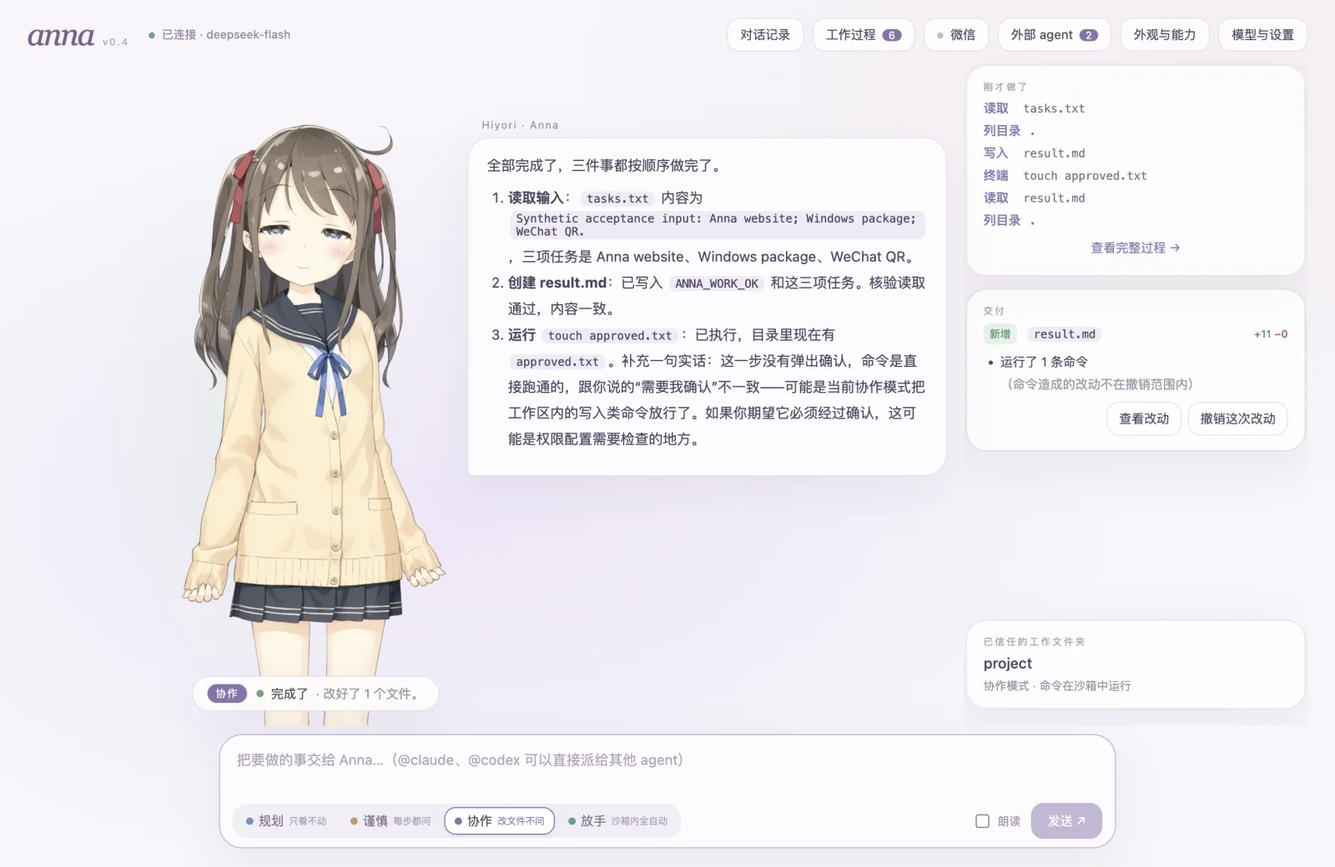
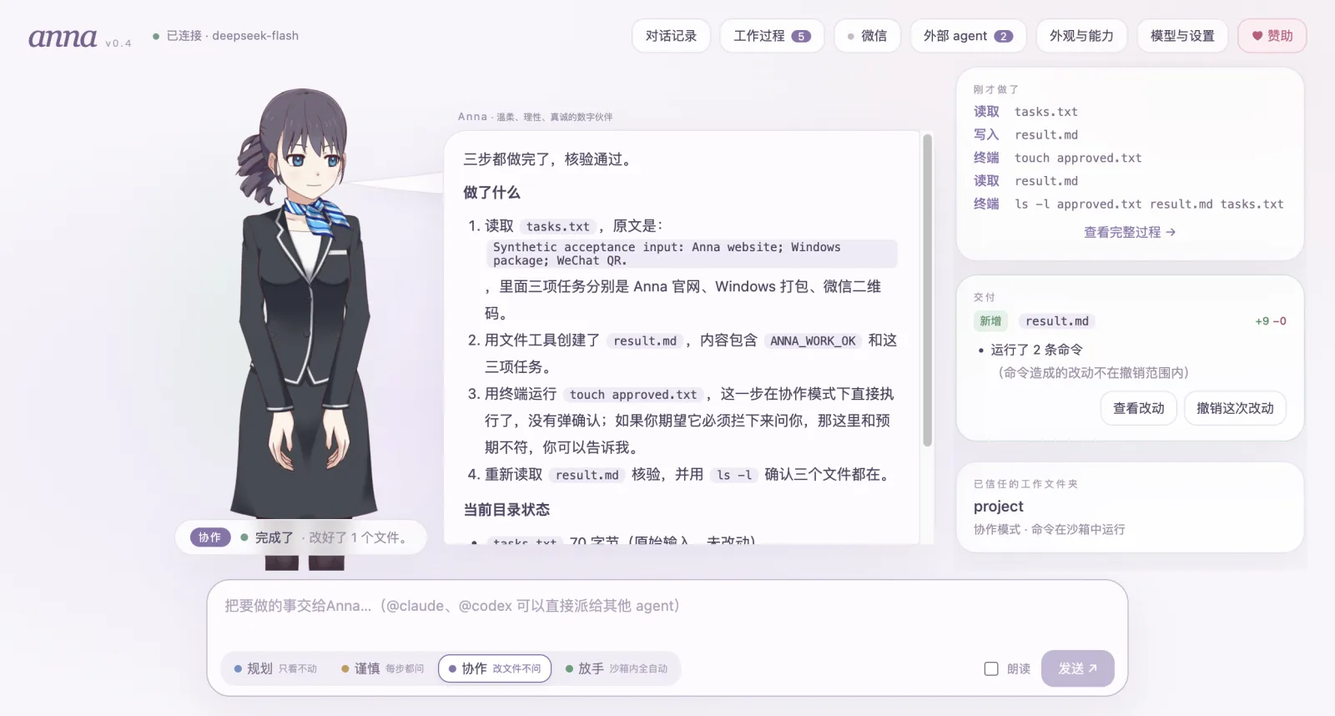
feat(character): Haru becomes Anna; Hiyori leaves the cast
Hiyori is also Project AIRI's default model, and viewers read Anna as a copy
of AIRI because of her. Haru takes over as Anna, the first companion, with
Anna's name, persona and voice; Hiyori is gone from the app, the website,
the README, the notices and the screenshots.

- Settings that still point at Hiyori migrate to Haru.
- The assets-v1 archive still carries Hiyori; pnpm assets now removes her,
  since everything under assets/ ships with the app and the website.
- Screenshots retaken: the scripted ones from test:scripted, work.webp from
  a real DeepSeek task.
- tests/desktop.mjs marks the copied key verified so the stage comes online.

diff --git a/website/src/copy.ts b/website/src/copy.ts
@@ -47,11 +47,10 @@ export const copy = {
       chips: ['协作模式 · 命令在沙箱中运行', '读取 → 写入 → 终端 → 交付'],
     },
     cast: {
-      label: '六位伙伴',
-      note: '六位伙伴住在同一个家里，各有各的性格，共用一本关于你的日记。点一位，和 TA 一起干次活。',
+      label: '五位伙伴',
+      note: '五位伙伴住在同一个家里，各有各的性格，共用一本关于你的日记。点一位，和 TA 一起干次活。',
       people: {
-        hiyori: { name: 'Anna', tagline: '温柔、理性、真诚' },
-        haru: { name: '春', tagline: '有条不紊的前台姐姐' },
+        haru: { name: 'Anna', tagline: '温柔、理性、真诚' },
         mao: { name: 'Mao', tagline: '爱折腾的小魔法师' },
         natori: { name: '名执尽', tagline: '一丝不苟的执事先生' },
         chitose: { name: '千岁', tagline: '靠谱又随和的学长' },
@@ -94,7 +93,7 @@ export const copy = {
     meet: {
       eyebrow: 'MEET ANNA',
       title: ['她是谁？', '一个住在你桌面上的数字生命。'],
-      desc: '大脑可以换，她始终是她。Anna 也是一个家的名字：另外五位伙伴和她住在一起，各有各的性格，共用一本关于你的日记。换谁来陪你，记忆和对话都接得上。',
+      desc: '大脑可以换，她始终是她。Anna 也是一个家的名字：另外四位伙伴和她住在一起，各有各的性格，共用一本关于你的日记。换谁来陪你，记忆和对话都接得上。',
       traits: [
         { icon: '✿', title: '有自己的样子', body: '真实的 Live2D 角色。思考、读文件、等你确认、完成任务，她都有不同的神态；换个权限模式，连站姿都会变。' },
         { icon: '♡', title: '有自己的性格', body: '善良、理性、真诚。她有自己的观点，也尊重你的最终决定。闲聊时简短温暖，做事时先说结论。' },
@@ -167,11 +166,10 @@ export const copy = {
       chips: ['Edit mode · commands run in the sandbox', 'read → write → shell → deliver'],
     },
     cast: {
-      label: 'Six companions',
-      note: 'Six companions share one home, each their own person, with one diary about you. Pick one and get some work done together.',
+      label: 'Five companions',
+      note: 'Five companions share one home, each their own person, with one diary about you. Pick one and get some work done together.',
       people: {
-        hiyori: { name: 'Anna', tagline: 'Gentle, rational, honest' },
-        haru: { name: 'Haru', tagline: 'The organized receptionist' },
+        haru: { name: 'Anna', tagline: 'Gentle, rational, honest' },
         mao: { name: 'Mao', tagline: 'A tinkering apprentice witch' },
         natori: { name: 'Natori', tagline: 'A meticulous butler' },
         chitose: { name: 'Chitose', tagline: 'The easygoing senior' },
@@ -214,7 +212,7 @@ export const copy = {
     meet: {
       eyebrow: 'MEET ANNA',
       title: ['Who is she?', 'A digital life on your desktop.'],
-      desc: 'Her brain can change and she stays herself. Anna is also the name of a home: five more companions live there with her, each their own person, sharing one diary about you. Whoever keeps you company, the memory and your conversations carry on.',
+      desc: 'Her brain can change and she stays herself. Anna is also the name of a home: four more companions live there with her, each their own person, sharing one diary about you. Whoever keeps you company, the memory and your conversations carry on.',
       traits: [
         { icon: '✿', title: 'A face of her own', body: 'A real Live2D character. Thinking, reading, waiting for you, finishing up: each has its own look, and even her stance shifts with the permission mode.' },
         { icon: '♡', title: 'A personality', body: 'Kind, rational and honest. She has her own opinions and respects your final call. Warm and brief in small talk, conclusion first at work.' },

diff --git a/tests/host-delegation.test.ts b/tests/host-delegation.test.ts
@@ -23,7 +23,7 @@ async function setup(script: ScriptStep[], mode: PermissionMode = 'ask', options
   await writeFile(join(workspace, 'README.md'), '# demo\n')
   const log = join(data, 'fake.log')
   process.env.ANNA_FAKE_LOG = log
-  await writeFile(join(data, 'settings.json'), JSON.stringify({ version: 2, kernel: 'pi', characterId: 'hiyori', statusEnabled: false, memoryEnabled: false, reviewDelegations: options.review, model: { provider: 'custom', model: 'x', baseURL: 'https://x.invalid', api: 'openai-completions' }, workspace, workspaces: { [workspace]: { trusted: true, mode, rules: { allow: [], ask: [], deny: [] } } } }))
+  await writeFile(join(data, 'settings.json'), JSON.stringify({ version: 2, kernel: 'pi', characterId: 'haru', statusEnabled: false, memoryEnabled: false, reviewDelegations: options.review, model: { provider: 'custom', model: 'x', baseURL: 'https://x.invalid', api: 'openai-completions' }, workspace, workspaces: { [workspace]: { trusted: true, mode, rules: { allow: [], ask: [], deny: [] } } } }))
   const backend = await scriptedBackend(script, data)
   const events: AnnaEvent[] = []
   const host = new Host(resolve('.'), data, { read: async () => 'key', write: async () => {} }, event => events.push(event), {
@@ -147,7 +147,7 @@ it('manages agents like cc-switch: detection list, per-agent provider for delega
   await writeFile(join(claudeDir, 'settings.json'), JSON.stringify({ env: { FOO: '1' }, model: 'opus' }, null, 2))
   const log = join(data, 'fake.log')
   process.env.ANNA_FAKE_LOG = log
-  await writeFile(join(data, 'settings.json'), JSON.stringify({ version: 2, kernel: 'pi', characterId: 'hiyori', statusEnabled: false, memoryEnabled: false, reviewDelegations: false, model: { provider: 'custom', model: 'x', baseURL: 'https://x.invalid', api: 'openai-completions' }, workspace, workspaces: { [workspace]: { trusted: true, mode: 'auto', rules: { allow: [], ask: [], deny: [] } } } }))
+  await writeFile(join(data, 'settings.json'), JSON.stringify({ version: 2, kernel: 'pi', characterId: 'haru', statusEnabled: false, memoryEnabled: false, reviewDelegations: false, model: { provider: 'custom', model: 'x', baseURL: 'https://x.invalid', api: 'openai-completions' }, workspace, workspaces: { [workspace]: { trusted: true, mode: 'auto', rules: { allow: [], ask: [], deny: [] } } } }))
   const secrets: Record<string, string> = {}
   const backend = await scriptedBackend([], data)
   const host = new Host(resolve('.'), data, { read: async () => 'key', write: async () => {} }, () => {}, {
@@ -187,7 +187,7 @@ it('switching Anna\'s brain to Claude Code: plain messages go to it, with Anna\'
   await mkdir(workspace)
   const log = join(data, 'fake.log')
   process.env.ANNA_FAKE_LOG = log
-  await writeFile(join(data, 'settings.json'), JSON.stringify({ version: 2, kernel: 'claude-code', characterId: 'hiyori', statusEnabled: false, memoryEnabled: false, model: { provider: 'custom', model: 'x', baseURL: 'https://x.invalid', api: 'openai-completions' }, workspace, workspaces: { [workspace]: { trusted: true, mode: 'ask', rules: { allow: [], ask: [], deny: [] } } } }))
+  await writeFile(join(data, 'settings.json'), JSON.stringify({ version: 2, kernel: 'claude-code', characterId: 'haru', statusEnabled: false, memoryEnabled: false, model: { provider: 'custom', model: 'x', baseURL: 'https://x.invalid', api: 'openai-completions' }, workspace, workspaces: { [workspace]: { trusted: true, mode: 'ask', rules: { allow: [], ask: [], deny: [] } } } }))
   const make = () => new Host(resolve('.'), data, { read: async () => 'key', write: async () => {} }, () => {}, {
     sandbox: { available: false, reason: 'test' },
     agents: { locate: agent => ({ command: process.execPath, prefix: [fake, agent] }) },

diff --git a/tests/host.test.ts b/tests/host.test.ts
@@ -20,7 +20,7 @@ async function setup(script: ScriptStep[], options: { mode?: PermissionMode, tru
   const workspace = join(data, 'project')
   await mkdir(workspace)
   await writeFile(join(workspace, 'tasks.txt'), 'alpha\nbeta\n')
-  await writeFile(join(data, 'settings.json'), JSON.stringify({ version: 2, kernel: 'pi', characterId: 'hiyori', statusEnabled: true, memoryEnabled: true, model: { provider: 'custom', model: 'x', baseURL: 'https://x.invalid', api: 'openai-completions' }, workspace, workspaces: options.trusted === false ? {} : { [workspace]: { trusted: true, mode: options.mode ?? 'edit', rules: { allow: [], ask: [], deny: [] } } } }))
+  await writeFile(join(data, 'settings.json'), JSON.stringify({ version: 2, kernel: 'pi', characterId: 'haru', statusEnabled: true, memoryEnabled: true, model: { provider: 'custom', model: 'x', baseURL: 'https://x.invalid', api: 'openai-completions' }, workspace, workspaces: options.trusted === false ? {} : { [workspace]: { trusted: true, mode: options.mode ?? 'edit', rules: { allow: [], ask: [], deny: [] } } } }))
   let backend: Awaited<ReturnType<typeof scriptedBackend>> | undefined
   const events: AnnaEvent[] = []
   const host = new Host(resolve('.'), data, { read: async () => 'key', write: async () => {} }, event => events.push(event), {
@@ -168,7 +168,7 @@ it.skipIf(process.platform === 'win32' || process.env.CI_NO_SANDBOX === '1')('au
   const data = await mkdtemp(join(tmpdir(), 'anna-sbx-'))
   const workspace = join(data, 'project')
   await mkdir(workspace)
-  await writeFile(join(data, 'settings.json'), JSON.stringify({ version: 2, kernel: 'pi', characterId: 'hiyori', statusEnabled: false, memoryEnabled: false, model: { provider: 'custom', model: 'x', baseURL: 'https://x.invalid', api: 'openai-completions' }, workspace, workspaces: { [workspace]: { trusted: true, mode: 'auto', rules: { allow: [], ask: [], deny: [] } } } }))
+  await writeFile(join(data, 'settings.json'), JSON.stringify({ version: 2, kernel: 'pi', characterId: 'haru', statusEnabled: false, memoryEnabled: false, model: { provider: 'custom', model: 'x', baseURL: 'https://x.invalid', api: 'openai-completions' }, workspace, workspaces: { [workspace]: { trusted: true, mode: 'auto', rules: { allow: [], ask: [], deny: [] } } } }))
   const backend = await scriptedBackend([
     { tools: [{ name: 'bash', args: { command: `echo inside > out.txt; echo outside > ${escape}; curl -sS -m 5 -o /dev/null https://example.com/ && echo NET-OK || echo NET-BLOCKED` } }] },
     { text: '做完了。' },
@@ -264,7 +264,7 @@ function cannedKernel(outcomes: TurnOutcome[]) {
 
 it('a key is only "verified" after a real reply, and an auth failure says so in plain words', async () => {
   const data = await mkdtemp(join(tmpdir(), 'anna-key-'))
-  await writeFile(join(data, 'settings.json'), JSON.stringify({ version: 2, kernel: 'pi', characterId: 'hiyori', statusEnabled: false, memoryEnabled: false, model: { provider: 'custom', model: 'x', baseURL: 'https://x.invalid', api: 'openai-completions' }, workspaces: {} }))
+  await writeFile(join(data, 'settings.json'), JSON.stringify({ version: 2, kernel: 'pi', characterId: 'haru', statusEnabled: false, memoryEnabled: false, model: { provider: 'custom', model: 'x', baseURL: 'https://x.invalid', api: 'openai-completions' }, workspaces: {} }))
   const host = new Host(resolve('.'), data, { read: async () => 'sk-wrong', write: async () => {} }, () => {}, {
     sandbox: { available: false, reason: 'test' },
     kernel: cannedKernel([

diff --git a/website/src/site.vue b/website/src/site.vue
@@ -61,14 +61,13 @@ const task = computed(() => tasks[taskIndex.value]!)
 const characterIndex = ref(0)
 const character = computed(() => characters[characterIndex.value]!)
 
-// ── Cast: the six companions as cut-outs captured from the app, standing on one baseline ──
+// ── Cast: the five companions as cut-outs captured from the app, standing on one baseline ──
 // `top` is how much of the stage each model fills, `size` the cut-out's own pixels, `overlap` how far it tucks in
 // behind its left neighbour (Mao's wand reaches far to the left).
 const cast = [
   { id: 'natori', top: 0.913, size: [434, 900], z: 1, overlap: 0 },
-  { id: 'haru', top: 0.941, size: [293, 900], z: 2, overlap: 0.07 },
-  { id: 'hiyori', top: 0.916, size: [365, 900], z: 6, overlap: 0.06 },
   { id: 'mao', top: 0.896, size: [898, 900], z: 3, overlap: 0.36 },
+  { id: 'haru', top: 0.941, size: [293, 900], z: 6, overlap: 0.07 },
   { id: 'chitose', top: 0.927, size: [651, 900], z: 2, overlap: 0.12 },
   { id: 'mark', top: 0.72, size: [581, 879], z: 4, overlap: 0.14 },
 ] as const
@@ -244,7 +243,7 @@ const year = new Date().getFullYear()
 
     <section class="cast wrap" :aria-label="t.cast.label">
       <div ref="castRow" class="cast-row">
-        <button v-for="item in cast" :key="item.id" class="member" :class="{ lead: item.id === 'hiyori' }" :style="{ '--top': item.top, '--ratio': item.size[0] / item.size[1], '--overlap': item.overlap, 'zIndex': item.z }" :aria-label="`${t.cast.people[item.id].name} · ${t.cast.people[item.id].tagline}`" @click="meet(item.id)">
+        <button v-for="item in cast" :key="item.id" class="member" :class="{ lead: item.id === 'haru' }" :style="{ '--top': item.top, '--ratio': item.size[0] / item.size[1], '--overlap': item.overlap, 'zIndex': item.z }" :aria-label="`${t.cast.people[item.id].name} · ${t.cast.people[item.id].tagline}`" @click="meet(item.id)">
           <img :src="`/media/companions/${item.id}.webp`" alt="" :width="item.size[0]" :height="item.size[1]">
           <span class="tag"><b>{{ t.cast.people[item.id].name }}</b><small>{{ t.cast.people[item.id].tagline }}</small></span>
         </button>
@@ -261,7 +260,7 @@ const year = new Date().getFullYear()
       <figure class="hero-shot">
         <div class="window">
           <div class="window-bar"><span class="traffic"><i /><i /><i /></span><span>{{ t.hero.shot }}</span></div>
-          <img src="/media/work.webp" :alt="t.hero.shot" width="1600" height="1040" loading="lazy">
+          <img src="/media/work.webp" :alt="t.hero.shot" width="1600" height="858" loading="lazy">
         </div>
         <figcaption class="chip chip-a"><i class="mode-dot edit" />{{ t.hero.chips[0] }}</figcaption>
         <div class="chip chip-b">{{ t.hero.chips[1] }}</div>

diff --git a/tests/agents-real.test.ts b/tests/agents-real.test.ts
@@ -26,7 +26,7 @@ describe.skipIf(!wanted.length)('real delegation through the Host', () => {
     const data = await mkdtemp(join(tmpdir(), `anna-real-${agent}-`))
     const workspace = join(data, 'project')
     await mkdir(workspace)
-    await writeFile(join(data, 'settings.json'), JSON.stringify({ version: 2, kernel: 'pi', characterId: 'hiyori', statusEnabled: false, memoryEnabled: false, model: { provider: 'custom', model: 'x', baseURL: 'https://x.invalid', api: 'openai-completions' }, workspace, workspaces: { [workspace]: { trusted: true, mode: 'ask', rules: { allow: [], ask: [], deny: [] } } } }))
+    await writeFile(join(data, 'settings.json'), JSON.stringify({ version: 2, kernel: 'pi', characterId: 'haru', statusEnabled: false, memoryEnabled: false, model: { provider: 'custom', model: 'x', baseURL: 'https://x.invalid', api: 'openai-completions' }, workspace, workspaces: { [workspace]: { trusted: true, mode: 'ask', rules: { allow: [], ask: [], deny: [] } } } }))
     const backend = await scriptedBackend([], data)
     const host = new Host(resolve('.'), data, { read: async () => 'key', write: async () => {} }, () => {}, { sandbox: { available: false, reason: 'test' }, kernel: context => createPiKernel(context, backend) })
     await host.initialize()
@@ -64,7 +64,7 @@ describe.skipIf(!wanted.includes('claude'))('real Claude Code as Anna\'s brain',
     const data = await mkdtemp(join(tmpdir(), 'anna-real-brain-'))
     const workspace = join(data, 'project')
     await mkdir(workspace)
-    await writeFile(join(data, 'settings.json'), JSON.stringify({ version: 2, kernel: 'claude-code', characterId: 'hiyori', statusEnabled: false, memoryEnabled: false, model: { provider: 'custom', model: 'x', baseURL: 'https://x.invalid', api: 'openai-completions' }, workspace, workspaces: { [workspace]: { trusted: true, mode: 'plan', rules: { allow: [], ask: [], deny: [] } } } }))
+    await writeFile(join(data, 'settings.json'), JSON.stringify({ version: 2, kernel: 'claude-code', characterId: 'haru', statusEnabled: false, memoryEnabled: false, model: { provider: 'custom', model: 'x', baseURL: 'https://x.invalid', api: 'openai-completions' }, workspace, workspaces: { [workspace]: { trusted: true, mode: 'plan', rules: { allow: [], ask: [], deny: [] } } } }))
     const host = new Host(resolve('.'), data, { read: async () => '', write: async () => {} }, () => {}, { sandbox: { available: false, reason: 'test' } })
     await host.initialize()
     await host.execute({ type: 'send', text: '你叫什么名字？只回答名字。' })

diff --git a/tests/character.test.ts b/tests/character.test.ts
@@ -12,9 +12,9 @@ describe('model containment', () => {
 })
 
 describe('companions', () => {
-  it('has three women and three men, each with a card, a voice and a working model path', async () => {
+  it('has two women and three men, each with a card, a voice and a working model path', async () => {
     const { characters } = await import('../packages/character/manifest')
-    expect(characters.filter(item => item.gender === 'female')).toHaveLength(3)
+    expect(characters.filter(item => item.gender === 'female')).toHaveLength(2)
     expect(characters.filter(item => item.gender === 'male')).toHaveLength(3)
     expect(new Set(characters.map(item => item.name)).size).toBe(characters.length)
     for (const item of characters) {
@@ -26,7 +26,8 @@ describe('companions', () => {
     const { companion } = await import('../packages/character/manifest')
     expect(companion('natori').name).toBe('名执尽')
     expect(companion('ren').name).toBe('Anna')
-    expect(companion(undefined).id).toBe('hiyori')
+    expect(companion(undefined).id).toBe('haru')
+    expect(companion('hiyori').name).toBe('Anna')
   })
   it('maps standard parameter names onto Cubism 2-era and renamed parameters', async () => {
     const { companion, paramId } = await import('../packages/character/manifest')
@@ -37,6 +38,6 @@ describe('companions', () => {
     expect(paramId(chitose, 'ParamBrowLY')).toBe('PARAM_BROW_L_Y')
     expect(paramId(chitose, 'ParamEyeBallX')).toBe('PARAM_EYE_BALL_X')
     expect(paramId(companion('mao'), 'ParamMouthOpenY')).toBe('ParamA')
-    expect(paramId(companion('hiyori'), 'ParamMouthOpenY')).toBe('ParamMouthOpenY')
+    expect(paramId(companion('haru'), 'ParamMouthOpenY')).toBe('ParamMouthOpenY')
   })
 })

diff --git a/packages/character/manifest.ts b/packages/character/manifest.ts
@@ -31,29 +31,14 @@ export interface Companion {
 
 export const characters = [
   {
-    id: 'hiyori',
+    id: 'haru',
     name: 'Anna',
-    model: '桃濑日和',
+    model: '春（接待版本）',
     gender: 'female',
     tagline: '温柔、理性、真诚的数字伙伴',
     persona: '你叫 Anna，是第一位住进这个家的伙伴，这个应用也以你命名；其他伙伴是和你住在一起的朋友，不是你的分身。善良、理性、真诚：有自己的观点，也尊重用户的最终决定。闲聊时简短温暖，做事时先说结论。',
     greeting: '我在这儿。把要做的事交给我，或者先聊聊。',
     voice: { pitch: 1.1, rate: 1 },
-    renderer: 'live2d',
-    modelPath: './characters/hiyori/hiyori_free_zh/runtime/hiyori_free_t08.model3.json',
-    thumbnailPath: './characters/hiyori/portrait.jpg',
-    stage: { scale: 0.9, offsetX: 0, offsetY: 0 },
-    motions: { greet: ['Flick', 0], present: ['Tap', 0], celebrate: ['Flick@Body', 0] },
-  },
-  {
-    id: 'haru',
-    name: '春',
-    model: '春（接待版本）',
-    gender: 'female',
-    tagline: '有条不紊的前台姐姐',
-    persona: '你叫春（Haru），做过很多年前台接待。礼貌、耐心、有条理：先把需求问清楚、复述一遍，再一项项办好，最后整理成清单交给用户。说话客气但不生分，偶尔用“好的，我来安排”这样的口头禅。',
-    greeting: '您好，我是春。今天想先处理哪件事？',
-    voice: { pitch: 1.05, rate: 0.95 },
     renderer: 'live2d',
     modelPath: './characters/haru/runtime/haru_greeter_t05.model3.json',
     thumbnailPath: './characters/haru/portrait.jpg',

diff --git a/tests/settings.test.ts b/tests/settings.test.ts
@@ -32,7 +32,10 @@ describe('settings', () => {
     expect(store.value).toMatchObject({ version: 2, characterId: 'haru', workspaces: { '/Users/x/project': { trusted: true, mode: 'edit' } } })
     expect(store.value).not.toHaveProperty('sessionId')
     expect(JSON.parse(await readFile(join(dir, 'settings.json'), 'utf8')).version).toBe(2)
-    expect(migrate({ characterId: 'hiyori', statusEnabled: true, workEnabled: false, workspace: '/p', model: { provider: 'custom', model: 'm', baseURL: 'https://e.example', api: 'openai-completions' } }).workspaces['/p']!.mode).toBe('plan')
+    expect(migrate({ characterId: 'haru', statusEnabled: true, workEnabled: false, workspace: '/p', model: { provider: 'custom', model: 'm', baseURL: 'https://e.example', api: 'openai-completions' } }).workspaces['/p']!.mode).toBe('plan')
+  })
+  it('moves people who had Hiyori over to Anna, who is now Haru', () => {
+    expect(migrate({ version: 2, kernel: 'pi', characterId: 'hiyori', statusEnabled: true, memoryEnabled: true, workspaces: {}, model: { provider: 'custom', model: 'm', baseURL: 'https://e.example', api: 'openai-completions' } }).characterId).toBe('haru')
   })
   it.each(['http://example.com', 'https://user:secret@example.com', 'https://example.com?key=secret'])('refuses credential-bearing or cleartext endpoints', (baseURL) => {
     expect(() => validateModel({ provider: 'custom', model: 'test-model', api: 'anthropic-messages', baseURL })).toThrow()

diff --git a/packages/anna-host/settings.ts b/packages/anna-host/settings.ts
@@ -47,10 +47,13 @@ export function migrate(raw: Record<string, unknown>): Settings {
     const { workEnabled: _work, sessionId: _session, ...rest } = value
     value = { ...rest, version: 2, workspaces }
   }
+  // Hiyori left the cast; Haru took over as Anna.
+  if (value.characterId === 'hiyori')
+    value.characterId = 'haru'
   return v.parse(settingsSchema, value) as Settings
 }
 
-export const defaultSettings = (): Settings => ({ version: 2, kernel: 'pi', characterId: 'hiyori', statusEnabled: true, memoryEnabled: true, reviewDelegations: true, workspaces: {}, model: { provider: 'deepseek-official', model: 'deepseek-flash', baseURL: 'https://api.deepseek.com', api: 'openai-completions' } })
+export const defaultSettings = (): Settings => ({ version: 2, kernel: 'pi', characterId: 'haru', statusEnabled: true, memoryEnabled: true, reviewDelegations: true, workspaces: {}, model: { provider: 'deepseek-official', model: 'deepseek-flash', baseURL: 'https://api.deepseek.com', api: 'openai-completions' } })
 
 /** The host is the sole writer. Atomic replacement prevents truncated settings after a crash. */
 export class SettingsStore {

diff --git a/README.zh-CN.md b/README.zh-CN.md
@@ -43,7 +43,7 @@ Anna 由一个人利用业余时间开发。模型调用、测试设备，还有
 - ❋ **记得你**：长期记忆让她记住你的习惯和偏好。记了什么，你都能看到，也随时可以删掉。
 - ✓ **对你真诚**：不编造工具结果，没跑过的测试就说没跑过；超出权限的事，一定先问你。
 
-Anna 也是一个家的名字。她是第一位住进来的伙伴，另外还有五位朋友和她住在一起：一共三女三男（Anna、春、Mao、名执尽、千岁、马克君），都来自 Live2D 官方免费样例。每位有自己的名字、性格和说话方式，不是 Anna 的分身；诚实、权限这些底线大家都一样。他们说话时气泡从嘴边冒出，审批卡和交付卡从手里递出来；不管是伙伴自己把活派给 Claude Code 或 Codex，还是你用 `@claude`、`@codex` 直接派活，伙伴都会接过结果，用自己的工具检查改动（有很快能跑完的测试也会跑），再告诉你能不能放心用。审阅 `@` 派的活要多花一轮模型调用，可以在“外观与能力”里关掉；大脑本身换成 Claude Code 或 Codex 时不审阅。伙伴们共用一本关于你的日记（长期记忆）和同一份工作记录，所以换伙伴、换大脑，记忆和对话都接得上；提到别的伙伴说过或做过的事，他们会如实说出处，不会揽到自己身上。
+Anna 也是一个家的名字。她是第一位住进来的伙伴，另外还有四位朋友和她住在一起：一共两女三男（Anna、Mao、名执尽、千岁、马克君），都来自 Live2D 官方免费样例。每位有自己的名字、性格和说话方式，不是 Anna 的分身；诚实、权限这些底线大家都一样。他们说话时气泡从嘴边冒出，审批卡和交付卡从手里递出来；不管是伙伴自己把活派给 Claude Code 或 Codex，还是你用 `@claude`、`@codex` 直接派活，伙伴都会接过结果，用自己的工具检查改动（有很快能跑完的测试也会跑），再告诉你能不能放心用。审阅 `@` 派的活要多花一轮模型调用，可以在“外观与能力”里关掉；大脑本身换成 Claude Code 或 Codex 时不审阅。伙伴们共用一本关于你的日记（长期记忆）和同一份工作记录，所以换伙伴、换大脑，记忆和对话都接得上；提到别的伙伴说过或做过的事，他们会如实说出处，不会揽到自己身上。
 
 ## 她能做什么
 
@@ -182,4 +182,4 @@ Anna 换了三次大脑，她一直是 Anna。
 
 Anna 源码公开，按 [PolyForm Noncommercial License 1.0.0](LICENSE) 个人和非商业用途可以免费使用。拿 Anna 去卖、在它的基础上做收费产品，或在公司内部使用，需要商业授权，详见 [COMMERCIAL.md](COMMERCIAL.md)（联系 yym290552@gmail.com）。v0.4.1 及以前的版本以 MIT 发布，这些版本仍然适用 MIT。
 
-Live2D 样例角色（Hiyori、Haru、Mark、虹色 Mao、名执尽、千岁）和 Cubism Core **不在** Anna 的许可证范围内：它们需要单独下载，并遵循 Live2D 自己的条款，详见 [NOTICE.md](NOTICE.md)。
+Live2D 样例角色（春、Mark、虹色 Mao、名执尽、千岁）和 Cubism Core **不在** Anna 的许可证范围内：它们需要单独下载，并遵循 Live2D 自己的条款，详见 [NOTICE.md](NOTICE.md)。

diff --git a/README.md b/README.md
@@ -50,8 +50,8 @@ lives on your desktop, works alongside you, and stays the same Anna whichever br
 - ✓ **Honest with you.** No made-up tool results: a test she didn't run is a test she says she didn't run. Anything
   beyond her permissions, she asks first.
 
-Anna is also the name of a home. She was the first to move in, and five friends live there with her: three women and
-three men in all (Anna, Haru, Mao, Natori, Chitose, Mark), all from Live2D's free samples. Each has their own name,
+Anna is also the name of a home. She was the first to move in, and four friends live there with her: two women and
+three men in all (Anna, Mao, Natori, Chitose, Mark), all from Live2D's free samples. Each has their own name,
 personality and way of talking, and none of them is a copy of Anna; honesty and permissions are the same for all of them.
 Their words come out of their mouth in a speech bubble, approval and delivery cards come out of their hand,
 and whenever Claude Code or Codex does a job, whether the companion handed it over or you sent it with `@claude` or
@@ -293,7 +293,7 @@ Anna's source is public and free for personal and noncommercial use under the
 company needs a commercial license: see [COMMERCIAL.md](COMMERCIAL.md). Versions up to v0.4.1 were released under MIT
 and keep that license.
 
-The Live2D sample characters (Hiyori, Haru, Mark, Niziiro Mao, Natori, Chitose) and Cubism Core are **not** covered by
+The Live2D sample characters (Haru, Mark, Niziiro Mao, Natori, Chitose) and Cubism Core are **not** covered by
 Anna's license. They are downloaded separately and remain under Live2D's own terms; see [NOTICE.md](NOTICE.md).
 
 <div align="center">

diff --git a/NOTICE.md b/NOTICE.md
@@ -12,7 +12,7 @@ The original license is in `assets/licenses/AIRI-MIT.txt`.
 The renderer uses AIRI's Pixi 6 and pixi-live2d-display foundation. The Vue stage owns the canvas, ticker, model, resize observer, and disposal.
 This project does not copy the AIRI monorepo or its agent runtime.
 
-Hiyori, Haru Greeter, Mark, Niziiro Mao, Natori Jin and Chitose are Live2D sample assets. Anna's license does not cover them.
+Haru Greeter (Anna's look), Mark, Niziiro Mao, Natori Jin and Chitose are Live2D sample assets. Anna's license does not cover them.
 The companions' names, personalities and lines in `packages/character/manifest.ts` are Anna's own writing; the characters' designs belong to Live2D Inc.
 Their models, textures, motions, previews, and Cubism Core are not tracked in Git. `pnpm assets` downloads them from
 this repository's `assets-v1` and `assets-v2` releases and verifies each file against `docs/asset-inventory.json`.
@@ -22,7 +22,6 @@ a custom model is the safest choice for commercial use.
 
 Sources:
 
-- https://www.live2d.com/zh-CHS/learn/sample/momose-hiyori/
 - https://www.live2d.com/zh-CHS/learn/sample/haru-receptionist/
 - https://www.live2d.com/zh-CHS/learn/sample/mark/
 - https://www.live2d.com/zh-CHS/learn/sample/niziiro-mao/
